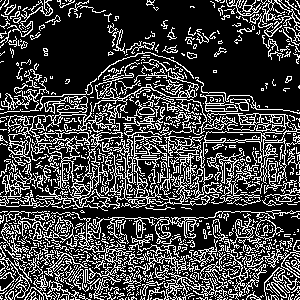
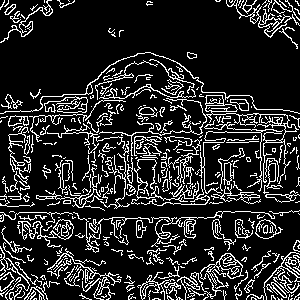
houghlines

diff --git a/coin_trainer.py b/coin_trainer.py
@@ -99,16 +99,54 @@ def snap_shot(usb_device):
 	return frame
  
 
-def display_image(img):
-	time.sleep(1)
+def display_image(img, wait_time):
+	global ready_to_display
+	while ready_to_display != True:
+		time.sleep(.1)
+		#print "waiting"
+	#time.sleep(wait_time)
+	img = CVtoPIL(array2cv(img))
+	img = img.transpose(1)
+	#img = img.transpose(2)
+
+	#img.save("pil.png")
 	pylab.ion()
-	a = imread(img)
+	#a = imread(img)
 	#print "a:", a
-	pylab.imshow(a)
+	pylab.imshow(img)
 	pylab.draw()
-	#time.sleep(5)
-	#pylab.ioff()
-	#sys.exit(-1)
+	
+
+
+def houghlines(img, min_lines):
+	global ready_to_display
+	x = 500
+	edges = cv2.Canny(img, (int(x/2)), x , apertureSize=3)
+	lines = cv2.HoughLinesP(edges, 1, math.pi/180, 50, None, 50, 10);
+	
+	while len(lines[0]) < min_lines:
+		edges = cv2.Canny(img, (int(x/2)), x , apertureSize=3)
+		#cv2.imwrite("canny.png", edges)
+		lines = cv2.HoughLinesP(edges, 1, math.pi/180, 50, None, 50, 10);
+		print "x: ", x , " Lines: ", len(lines[0])
+		x = x -5
+		#time.sleep(.2)
+	cv2.imwrite("canny.png", edges)
+	temp_img = img
+	for line in lines[0]:
+		pt1 = (line[0],line[1])
+		pt2 = (line[2],line[3])
+		cv2.line(temp_img, pt1, pt2, (0,0,255), 3)
+	#cv2.imwrite("houghlines.png", temp_img)
+	print "houghlines:", len(lines[0])
+	#ready_to_display = True
+	#display =Thread(target=display_image, args=(temp_img,.1,))
+	#display.daemon=True
+	#display.start()
+	ready_to_display = True
+ 	display_image(temp_img, 1)
+	
+	return lines
 
 def preprocess_img(img1):
 	print "Greying image"
@@ -116,21 +154,27 @@ def preprocess_img(img1):
 	print "Finding Center of Coin"
 	coin_center = find_center_of_coin(grey)
 	print "Center of Coin:", coin_center
-	'''
+	
 	print "Smoothing Image"
 	cv.Smooth(grey,grey,cv.CV_GAUSSIAN,3,3)
-	x=120
-	cv.Canny(grey,grey,cv.Round((x/2)),x, 3)
-	'''
+	#x=120
+	#cv.Canny(grey,grey,cv.Round((x/2)),x, 3)
+	
 	cropped = center_crop(grey, coin_center, 50)
 	cv2.imwrite("cropped.png", cv2array(cropped))
-	#pil_cropped = CVtoPIL(cropped)
-	#pil_cropped.show()
-	print cropped
+	
+	#########################################
+	#		Display Results
+	#######################
+	display =Thread(target=display_image, args=(cv2array(cropped),.1,))
+	display.daemon=True
+	display.start()
 	return cv2array(cropped)
 
 
 def find_features(img):
+	features = houghlines(img, 125)
+
 	#print img, type(img)
 
 	#gray scale the image if neccessary
@@ -195,21 +239,7 @@ def find_features(img):
 	#gray = cv2.cvtColor(img, cv2.COLOR_BGR2GRAY)
 	#gray = CVtoGray(numpy2CV(img))
 	#print gray
-	edges = cv2.Canny(img, 100, 200)
-	cv2.imwrite("canny.png", edges)
-	#imshow(edges)
-	#show()
-	features = cv2.HoughLinesP(edges, 1, math.pi/180, 2, None, 10, 2);
-	temp_img = img
-	#features = cv2.HoughLinesP(img, 1, (math.pi/180), 2, 2, 10, 2);
-	for line in features[0]:
-		pt1 = (line[0],line[1])
-		pt2 = (line[2],line[3])
-		cv2.line(temp_img, pt1, pt2, (0,0,255), 3)
-	cv2.imwrite("cropped.png", temp_img)
-	#imshow(img)
-	#show()
-	print "houghlines:", features, len(features[0])
+
 	#except:
 	#	print "no houghlines available"
 	#img1 = mahotas.imread('temp.png')
@@ -258,12 +288,7 @@ def find_features(img):
 		#	print math.log10(x)
 	print "degree = ", degree
 	'''
-	#########################################
-	#		Display Results
-	#######################
-	display =Thread(target=display_image, args=('cropped.png',))
-	display.daemon=True
-	display.start()
+
 	return features
 
 def classify(model, features):
@@ -538,6 +563,7 @@ def subsection_image(pil_img, sections, visual):
 
 
 if __name__=="__main__":
+	ready_to_display = False
  	'''
 	try:
 		dc_motor = serial.Serial(port='/dev/ttyACM2', baudrate=9600, timeout=1)
@@ -584,6 +610,7 @@ if __name__=="__main__":
 	reply =""
 	#eg.rootWindowPosition = "+100+100"
 	while True:
+		ready_to_display = False
 		#eg.rootWindowPosition = eg.rootWindowPosition
 		print 'reply=', reply		
 
@@ -653,7 +680,7 @@ if __name__=="__main__":
 			img1 = cv2.imread('temp.png')
 			img1 = preprocess_img(img1)
 			find_features(img1)
-
+			ready_to_display = True
 
 
 		if reply == "Retrain AI":

diff --git a/houghlines.py b/houghlines.py
@@ -7,6 +7,7 @@ import cv
 import urllib2
 from coin_tools import *
 import time
+import scipy.spatial
 # toggle between CV_HOUGH_STANDARD and CV_HOUGH_PROBILISTIC
 USE_STANDARD = False
 
@@ -51,17 +52,20 @@ if __name__ == "__main__":
             lines = cv.HoughLines2(dst, storage, cv.CV_HOUGH_PROBABILISTIC, 1, pi / 180, 50, 50, 10)
             for line in lines:
                 cv.Line(color_dst, line[0], line[1], cv.CV_RGB(255, 0, 0), 3, 8)
+	if r == 0:
+		org_lines = lines
 	if USE_STANDARD: print "STANDARD"
 	else: print "Probalistic"
 	print "canny:", x,  "  degrees:", r
 	print "lines:", len(lines)
+	print "dist: ", scipy.spatial.distance.cdist(lines, org_lines,'euclidean')
         cv.ShowImage("Source", src)
         cv.ShowImage("Hough", color_dst)
-	if len(lines) < 100:
+	if len(lines) < 150:
 		k = ord("s")
 		time.sleep(.2)
 		cv.WaitKey(10)
-	if len(lines) > 100:
+	if len(lines) > 150:
 		#print "wait"
         	k = cv.WaitKey(0)
 	print k
